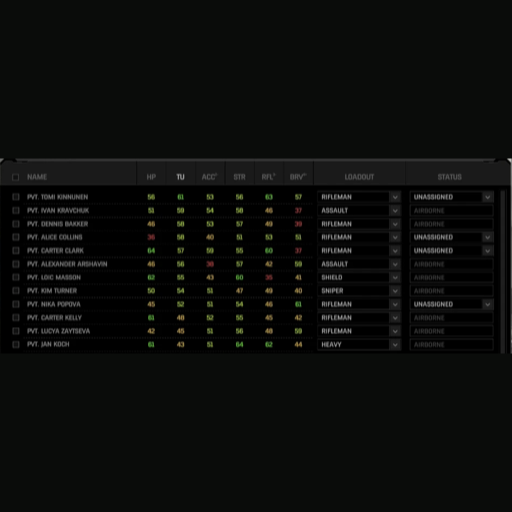
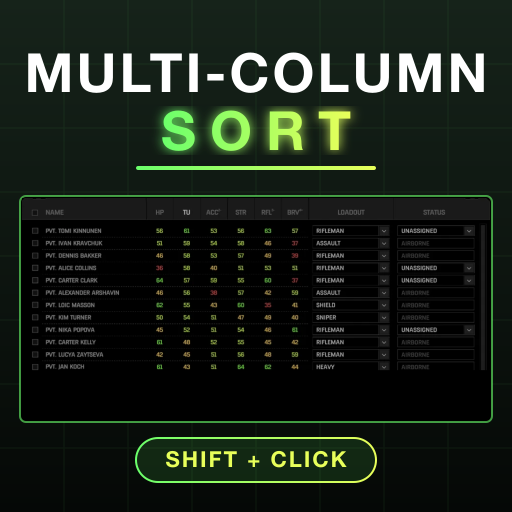
Shift-click only; new preview image

Changed region(s): [[0.0, 0.0938, 1.0, 0.9688]]

diff --git a/src/SortScreens.cs b/src/SortScreens.cs
@@ -123,11 +123,7 @@ internal static class SortScreens
         return false;
     }
 
-    private static bool ModifierHeld() =>
-        Input.GetKey(KeyCode.LeftControl) || Input.GetKey(KeyCode.RightControl)
-        || Input.GetKey(KeyCode.LeftCommand) || Input.GetKey(KeyCode.RightCommand)
-        || Input.GetKey(KeyCode.LeftWindows) || Input.GetKey(KeyCode.RightWindows)
-        || Input.GetKey(KeyCode.LeftShift) || Input.GetKey(KeyCode.RightShift);
+    private static bool ModifierHeld() => Input.GetKey(KeyCode.LeftShift) || Input.GetKey(KeyCode.RightShift);
 
     private static string Describe(SortLevels levels)
     {

diff --git a/src/Patches.cs b/src/Patches.cs
@@ -74,7 +74,7 @@ public static class SelectionEnterPatch
 
 // --- Header clicks ---
 
-// A click on a sort header with Ctrl, Cmd or Shift held changes the extra levels and never reaches
+// A click on a sort header with Shift held changes the extra levels and never reaches
 // the game, so the first-level column and its highlighted header stay as they are.
 [HarmonyPatch(typeof(GHIToggle), nameof(GHIToggle.OnPointerClick))]
 public static class HeaderClickPatch

diff --git a/README.md b/README.md
@@ -4,12 +4,12 @@
 
 Adds extra sort levels to the soldier lists, the way spreadsheet grids do.
 
-- **Ctrl-click** a column header (Cmd-click or Shift-click also work) to add it as the next sort level.
+- **Shift-click** a column header to add it as the next sort level.
   The header gets a small marker with its position and direction, such as `2▼`.
-- Ctrl-click it again to reverse that level, and a third time to remove it.
+- Shift-click it again to reverse that level, and a third time to remove it.
 - A normal click on any header goes back to the game's single-column sort.
 
-Example: click STATUS, then Ctrl-click ACC. Soldiers are grouped by status and, inside each group,
+Example: click STATUS, then Shift-click ACC. Soldiers are grouped by status and, inside each group,
 ordered by accuracy.
 
 Works on Soldiers > Manage, Recruit and Memorial, and in the dropship soldier picker. If

diff --git a/CHANGELOG.md b/CHANGELOG.md
@@ -4,7 +4,7 @@
 
 First public release.
 
-- Ctrl-click (Cmd or Shift also work) a column header to add it as an extra sort level; click again to reverse, a third time to remove.
+- Shift-click a column header to add it as an extra sort level; click again to reverse, a third time to remove.
 - Header markers show each level's position and direction.
 - Works on Soldiers > Manage, Recruit and Memorial, and in the dropship soldier picker.
 - Soldier Total Stats' TOT column can be used as a level when that mod is installed.
